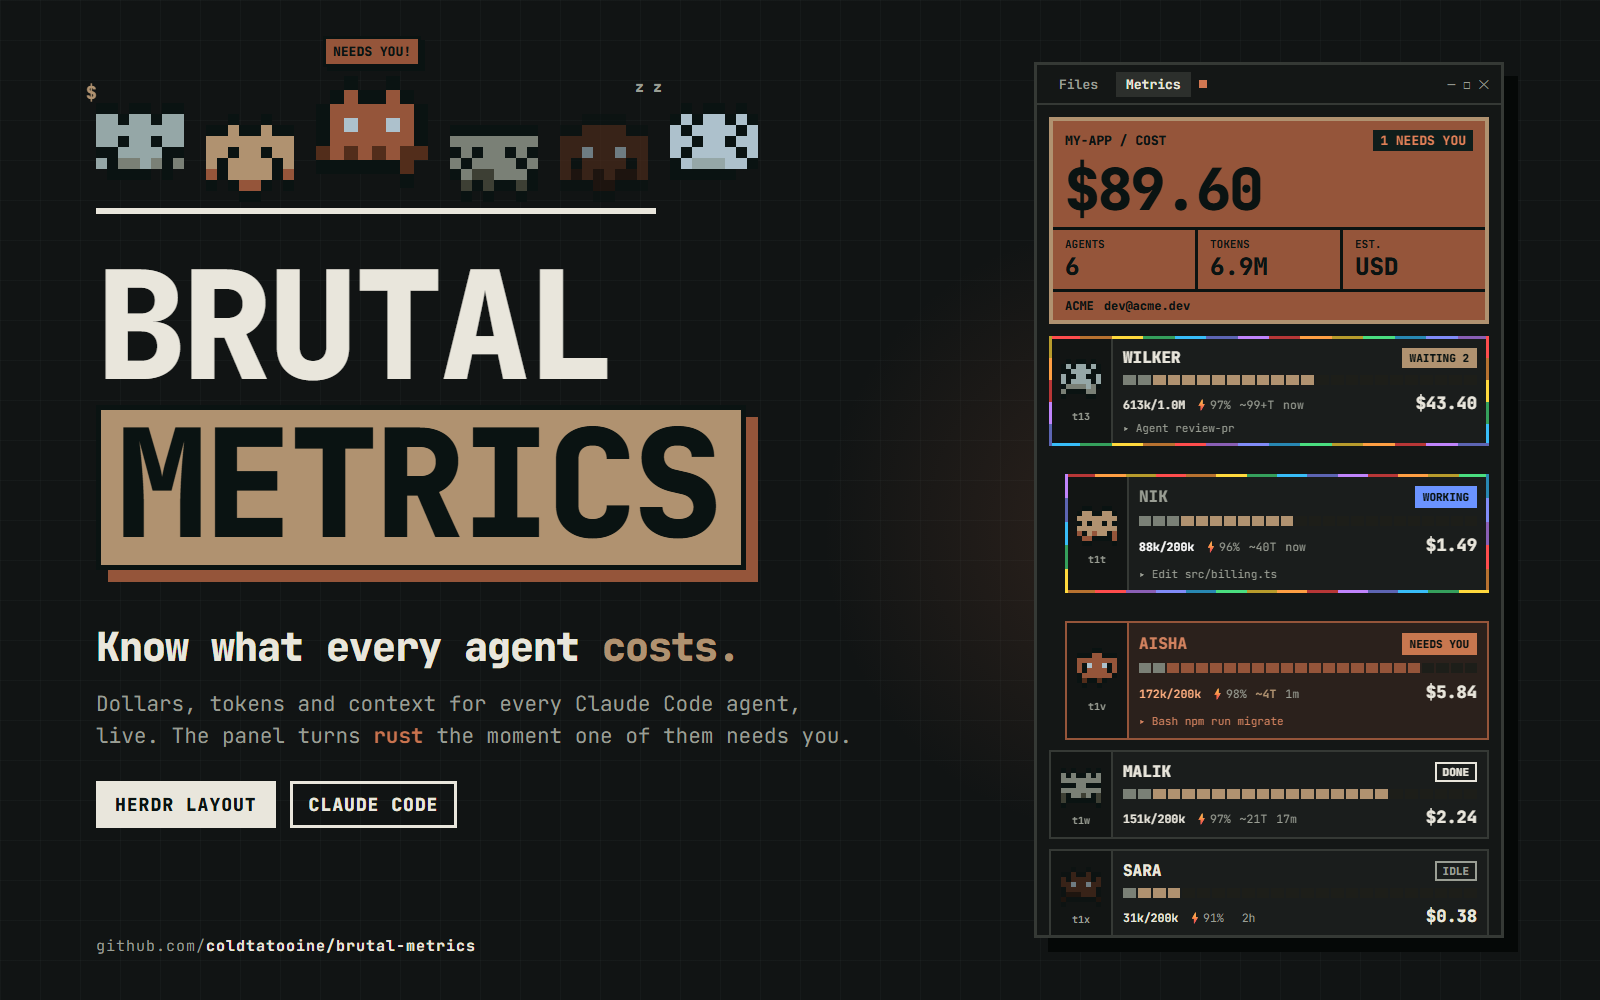
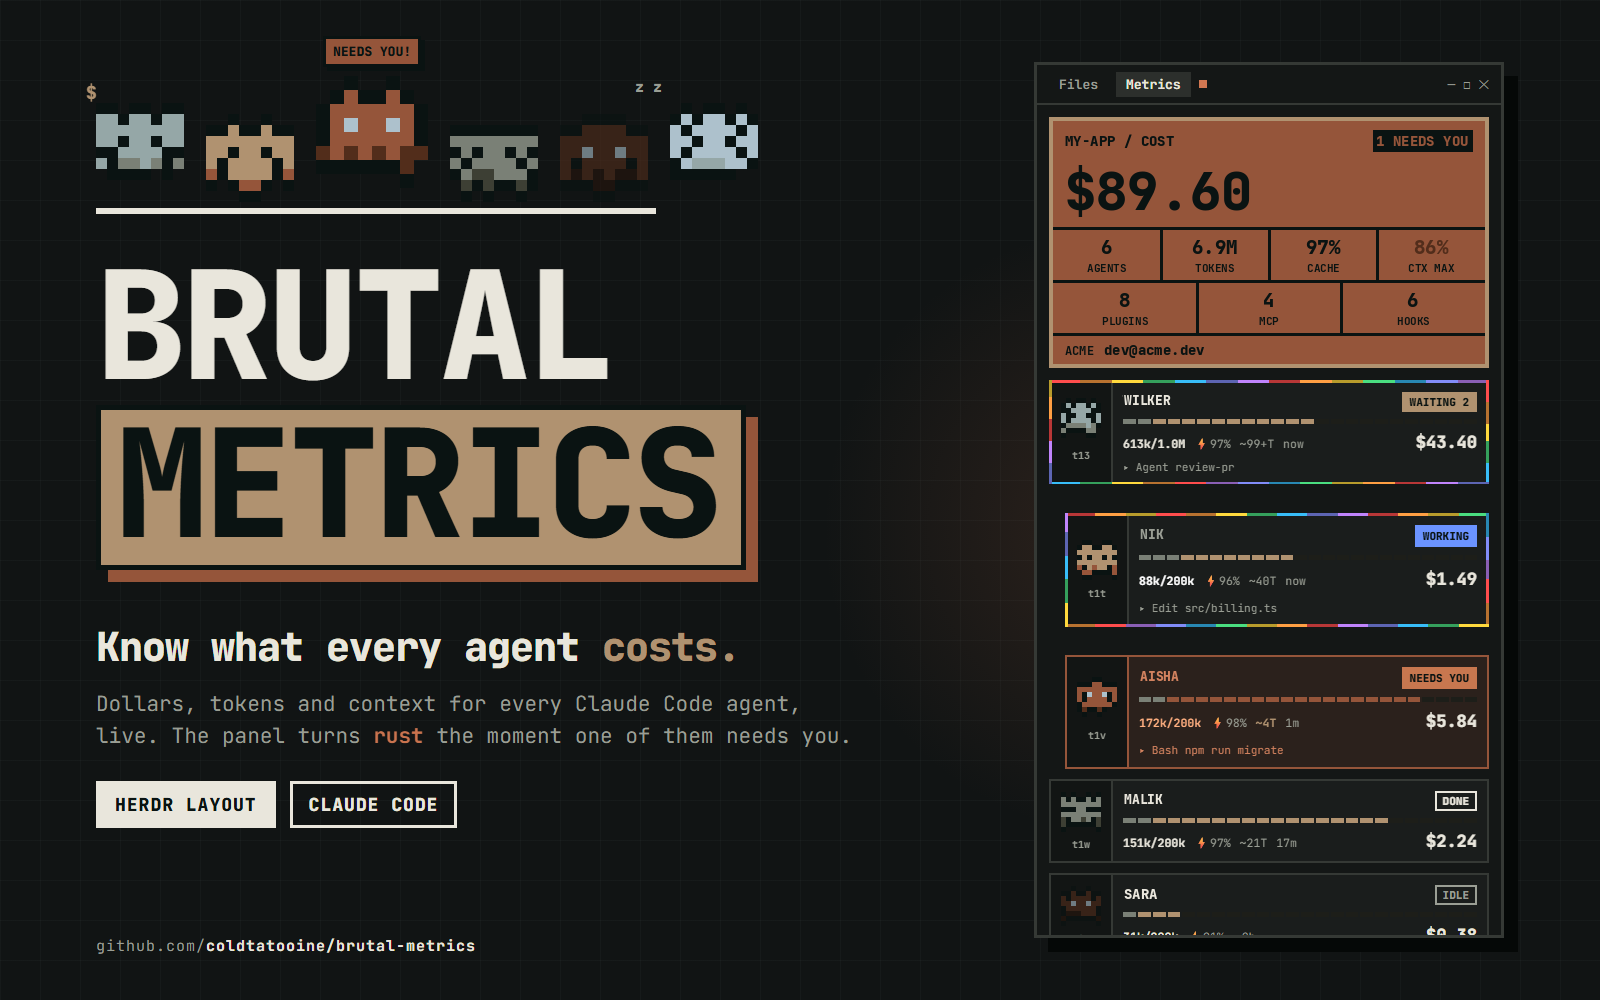
Smaller agent name, half-height context bar, new preview
Card name 15px -> 12px (13 -> 11 for sub-agents) and the context bar goes
from 10px to 5px. The preview shows the new summary block (AGENTS, TOKENS,
CACHE, CTX MAX, PLUGINS, MCP, HOOKS) and the slimmer cards. Sample data only.

Changed region(s): [[0.6562, 0.124, 0.9375, 0.93], [0.8438, 0.124, 0.9375, 0.155]]

diff --git a/mods/agent-metrics/main.js b/mods/agent-metrics/main.js
@@ -244,7 +244,7 @@ export default class AgentMetrics extends View {
       const nBase = base > 0 ? Math.max(1, Math.round((base / win) * SEGS)) : 0;
       const nUsed = Math.min(SEGS, Math.max(nBase, Math.round((ctx / win) * SEGS)));
       const conv = ctx / win >= HIGH ? HIGH_C : CONV_C;
-      return h_flex().h(10).w_full().gap(2).children(Array.from({ length: SEGS }, (_, i) =>
+      return h_flex().h(5).w_full().gap(2).children(Array.from({ length: SEGS }, (_, i) =>
         div().flex_1().h_full().bg(i < nBase ? BASE_C : i < nUsed ? conv : FREE_C)));
     };
     // ~N turns until the window is full, from the average growth of the last turns (null when not growing).
@@ -308,10 +308,10 @@ export default class AgentMetrics extends View {
             .child(r.a.address)))
         .child(v_flex().flex_1().min_w(0).p(8).gap(6)
           .child(h_flex().gap(8).items_center()
-            .child(div().flex_1().min_w(0).truncate().text_size(r.a.depth > 0 ? 13 : 15).font_family(MONO).font_black().text_color(r.a.focused ? t.accent : ink).child(r.name.toUpperCase()))
+            .child(div().flex_1().min_w(0).truncate().text_size(r.a.depth > 0 ? 11 : 12).font_family(MONO).font_black().text_color(r.a.focused ? t.accent : ink).child(r.name.toUpperCase()))
             .when(accounts.length > 1 && acctKey(s?.account) !== mainAcct, (el) => el.child(div().flex_none().px(4).h(18).flex().items_center().border(2).border_color(t.foreground).text_size(10).font_family(MONO).font_black().text_color(t.foreground).child(`@${(acctName(s?.account) ?? "?").split("@").pop().split(".")[0].toUpperCase()}`)))
             .child(stamp(r)))
-          .child(s ? bar(r) : div().h(10).border(2).border_color(t.border))
+          .child(s ? bar(r) : div().h(5).border(2).border_color(t.border))
           .child(h_flex().gap(8).items_baseline().text_size(11).font_family(MONO).text_color(t.muted)
             .when(!s, (el) => el.child(div().font_bold().text_color(ink).child("NO DATA")))
             .when(Boolean(s), (el) => el

diff --git a/RECIPE.md b/RECIPE.md
@@ -35,7 +35,7 @@ Everything is Herdr's `main` layout except four places:
        - Last row, 2px rule above: the account strip, organization (10px) and email (11px black), or the credential kind (`API KEY`, `BEDROCK`...). One line per account when the space mixes accounts (`2 CONTAS`, `email xN`).
     2. **Agent cards**, 8px gap, scrolling. Each card: 2px `border`, `surface` fill, indented 12px per sub-agent depth.
        - **Left column**, 60px (46 for sub-agents), 2px rule on its right, with 2px left padding so the avatar sits 4px from the left edge and 2px from the right one. The avatar is centered on `chrome`; pinned to the bottom and centered is the terminal's code (`hc` address, e.g. `t1f`, 10px bold `muted`, 9px for sub-agents, the stamp color when blocked/waiting). Hover: `accent`, underlined; click runs `agent.focus {terminal}` and opens that agent's terminal, sub-agents included (one without a pane gets one).
-       - **Right side**: name in caps (15px, 13px for sub-agents, black; `accent` when focused), a status stamp, a 24-segment context bar, a data line (11px) and, for active agents, a tool line (10.5px), then a `/CLEAR` button.
+       - **Right side**: name in caps (12px, 11px for sub-agents, black; `accent` when focused), a status stamp, a 24-segment context bar (5px tall), a data line (11px) and, for active agents, a tool line (10.5px), then a `/CLEAR` button.
        - **Bar**: first segments `#7a8076` = base (the session's first-turn context: system prompt, tools, rules, skills, MCP), then `#b09270` = conversation, turning `#95553a` at 80% or more, rest `#1d1e19`.
        - **Data line**: `used/window` (bold, `blocked` color from 80%), `⚡cache%`, `~NT` turns until full (sand and bold at 10 or fewer, hidden when the context isn't growing, `99+` cap), time since last activity (`now`, `5m`, `2h`), and right-aligned the card's estimated cost, 15px black.
        - **Tool line**: `▸ Read main.js`, `▸ Bash npm test`: the last tool the agent called; shown only for working, blocked and waiting agents.
